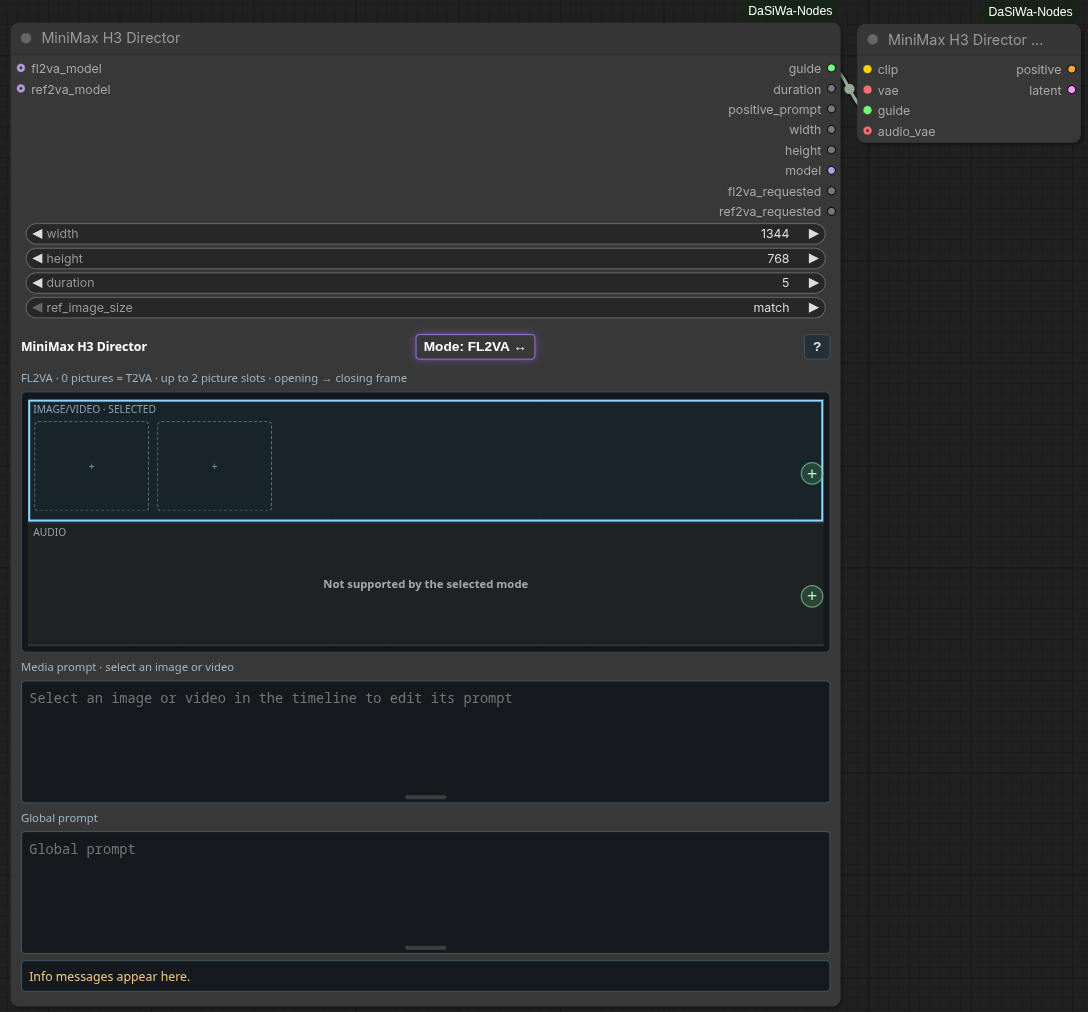
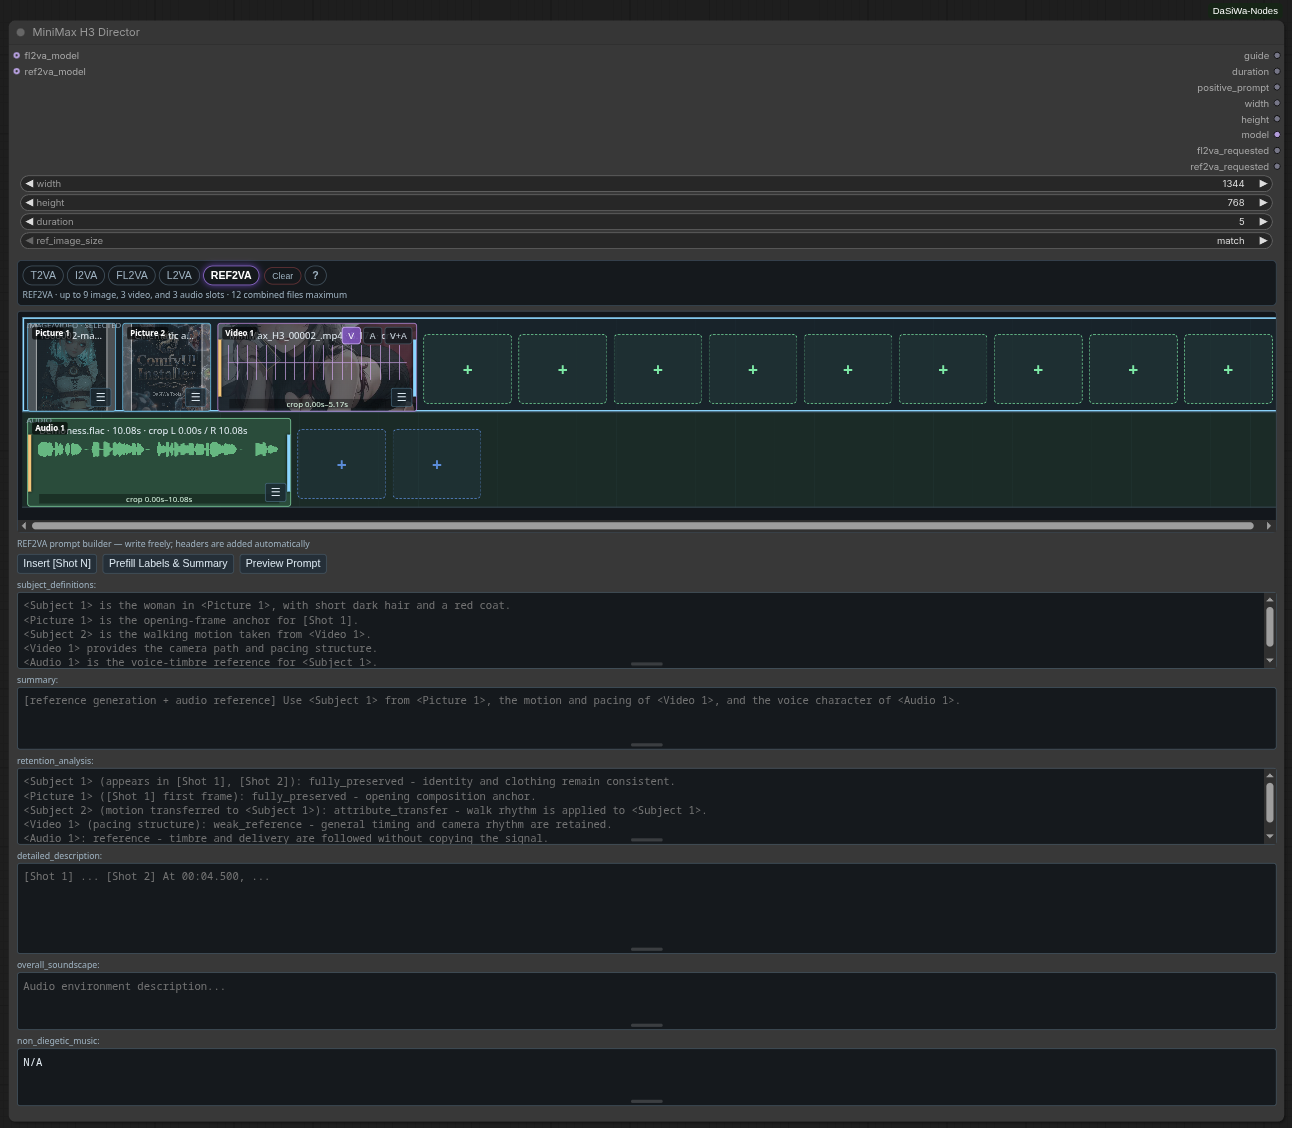
MiniMax H3 Director: new prompt builders, video thumbnails, helper buttons, toolbar cleanup, bug fixes
Features:
- REF2VA prompt builder simplified to six free-text fields; automatic header insertion; v1→v2 backward compat
- Insert [Shot N] button places shot markers at cursor
- Prefill Labels & Summary auto-generates Picture/Video/Audio labels from timeline media
- Preview Prompt popup shows exact assembled prompt with copy-to-clipboard
- Video thumbnails: first frame extracted at upload and displayed behind clip tiles
- Cleaner toolbar: single horizontal bar, bare mode pills, dedicated Clear/Remove/? controls
- Dark-blue audio lane accent

Docs:
- Updated README.md MiniMax H3 Director section
- Expanded minimax_h3_director.md changelog, quick overview, toolbar row, clip tiles, prompt editors, processing flow, guide node, practical workflow

Fixes:
- Guarded non-string values against .strip() TypeError
- Fixed textarea onChange passing Event instead of value
- Guarded missing p2_shot/last_shot keys
- Trim sliders only respond when clicking crop markers
- Images can now be dragged out of locked L2VA slots
- Corrected slot-capacity check for image acceptance
- Restored center drag handles on resize bars

Updated screenshot: assets/DaSiWa-MiniMaxH3-Director.png

Changed region(s): [[0.0, 0.0, 1.0, 1.0], [0.0, 0.0, 0.1562, 0.0919]]

diff --git a/docs/minimax_h3_director.md b/docs/minimax_h3_director.md
@@ -6,12 +6,34 @@ A timeline-based authoring node for ComfyUI's native MiniMax H3 models. It centr
 
 Since the last GitHub release (August 2026):
 
+### New features
+
+- **REF2VA prompt builder redesigned:** simplified to six free-text fields (subject_definitions, summary, retention_analysis, detailed_description, overall_soundscape, non_diegetic_music). Headers are added automatically when the prompt is sent upstream. Legacy v1 structured-builder data is merged backward-compatibly into these fields.
+- **Insert [Shot N] button:** opens a small dialog asking for a shot number, then inserts `[Shot N] ` at the current cursor position in the appropriate text area — no more manual typing.
+- **Prefill Labels & Summary button (REF2VA):** scans your inserted media and generates `<Picture N>`, `<Video N>`, and `<Audio N>` label lines plus a task-prefixed summary line so you can focus on editing instead of boilerplate.
+- **Preview Prompt button:** opens a popup showing the exact prompt that will be sent to MiniMax H3 (including all section headers, alignment lines, and assembled fields). Includes a copy-to-clipboard button so you can verify or reuse the result offline.
+- **Video thumbnail previews:** every uploaded video now extracts its first frame and displays it as a background behind the clip tile, replacing the generic icon. Makes it easy to tell references apart without opening each one.
+- **Cleaner toolbar:** consolidated into a single horizontal row with mode buttons on the left and Clear/Remove/? controls on the right; removed redundant bubble elements and pulsing glows for a quieter interface.
+- **Dark-blue audio lane accent:** distinguishes the audio lane visually from the Image/Video lane and the green "+ empty-slot" indicators.
+
+### Earlier additions
+
 - **Embedded video audio extraction:** videos can now supply their own audio reference. Select A or V+A on a video clip to decode its embedded audio track with the same trim range used for frames.
 - **Per-video stream switch (V / A / V+A):** compact controls on each video tile let you treat it as Video only, Audio only, or Video+embedded-audio without adding separate audio slots.
 - **Trim support for standalone audio:** audio clips now show a waveform preview and draggable left/right crop markers, behaving identically to video trimming.
 - **Attached soundtrack trim alignment:** external soundtracks linked to a video share its trim window automatically.
 - **Mode-switch safety:** toggling FL2VA ↔ REF2VA preserves incompatible references instead of deleting them; they reappear when you switch back.
 - **Hardened video duration detection:** fallback to container-level duration when stream metadata is incomplete.
+
+### Bug fixes
+
+- Non-string values in prompt-builder fields no longer crash with `.strip()` TypeError.
+- Textarea `onChange` callbacks now receive the string value, not the raw Event object.
+- Missing `p2_shot`/`last_shot` builder keys guarded against KeyError outside FL2VA/L2VA modes.
+- Trim sliders only respond when clicking directly on crop markers, preventing accidental drags on the track background.
+- Images can now be dragged out of locked L2VA slot positions instead of being stuck forever.
+- Slot-capacity checks corrected so images are accepted in all valid endpoint modes.
+- Center drag handles restored on prompt-field resize bars.
 
 ## Quick overview
 
@@ -20,7 +42,10 @@ Since the last GitHub release (August 2026):
 - Two timeline lanes: Image/Video + Audio. Click a lane to select it; paste / drop media there.
 - Per-video stream switch: choose Video only, Audio only, or Video+embedded-audio with identical trim ranges.
 - Standalone audio clips can be trimmed with left/right handles just like video.
-- Deterministic prompt assembly: global prompt + enabled per-media prompt blocks in timeline order.
+- Video thumbnails: each uploaded video shows its first frame as a background preview behind the clip tile.
+- Mode-specific prompt builders:
+  - FL2VA/I2VA/L2VA/T2VA: guided fields for description and audio sections with automatic alignment headers.
+  - REF2VA: six free-text sections (subject_definitions, summary, retention_analysis, detailed_description, overall_soundscape, non_diegetic_music) with helper buttons — Insert Shot, Prefill Labels & Summary, and Preview Prompt.
 - Only the selected FL2VA or REF2VA model is loaded; the Guide node calls ComfyUI's built-in H3 nodes.
 
 ## Installation and graph setup
@@ -140,12 +165,12 @@ Open the node and read top-to-bottom.
 ### Toolbar row
 
 - **Title label:** "MiniMax H3 Director"
-- **Mode button:** shows current mode (`FL2VA` or `REF2VA`). Click to toggle. When switching modes:
+- **Mode buttons (left):** T2VA, I2VA, FL2VA, L2VA, REF2VA shown as small pills. Active mode has purple highlight. Click to switch modes. When switching modes:
   - Going to FL2VA hides non-image references but keeps them in memory so they reappear when you switch back.
   - Going to REF2VA restores all previously added media.
-- **? button:** opens the online documentation on GitHub.
+- **Clear button:** removes all media and prompts from the timeline (appears only when there is content).
 - **Remove button:** appears when a clip is selected; deletes that item.
-- **Clear button:** removes all media and prompts from the timeline.
+- **? button:** opens the online documentation on GitHub.
 
 ### Timeline area
 
@@ -175,6 +200,7 @@ Each media item renders as a labeled tile inside its lane.
 
 Common elements:
 
+- **Background preview:** images show themselves; videos display their first-frame thumbnail extracted at upload time. Makes it easy to identify references visually without opening previews.
 - **Identity badge (top-left):** shows the MiniMax reference label used in prompts: `Picture 1`, `Video 2`, `Audio 1`, etc., assigned by type in timeline order.
 - **Label text:** filename, duration, current crop range (for video/audio), and a truncated preview of the media prompt if present.
 - **Selection outline:** click a tile to select it; enables the Remove button and populates the Media Prompt editor below.
@@ -205,23 +231,34 @@ Images:
 
 ### Prompt editors
 
-Below the timeline are two resizable text areas.
+Below the timeline is a unified prompt-builder panel whose layout depends on the active mode. Both editors have resizable text areas with drag-handle bars at the bottom; heights persist in the workflow JSON.
 
-#### Media Prompt (upper editor)
+#### FL2VA / I2VA / L2VA / T2VA builder
 
-- Appears when an image or video clip is selected. Disabled (empty) when nothing is selected or when an audio clip is selected.
-- Purpose: write a concise responsibility note for the selected reference, e.g.:
-  - `"character identity and red coat"`
-  - `"use this clip's hand gesture timing"`
-  - `"room architecture and lighting"`
-- These short blocks are appended after the global prompt during assembly, in timeline order.
+Three labeled text areas:
 
-#### Global Prompt (lower editor)
+- **integrated_multimodal_description** — main scene/action/camera/environment description with optional `[Shot N]` markers. An **Insert [Shot N]** button pops up a dialog and places the marker at your cursor.
+- **overall_soundscape** — ambient sounds, dialogue, effects.
+- **non_diegetic_music** — background score or `N/A`.
 
-- Holds the main prompt structure for the whole generation.
-- For FL2VA: contains the alignment instruction line(s) plus core fields (`integrated_multimodal_description`, `overall_soundscape`, `non_diegetic_music`).
-- For REF2VA: should contain the six-section structure described in the prompting guide below.
-- Both editors have a drag-handle bar at the bottom for resizing height. Your preferred heights persist in the workflow JSON.
+Alignment instruction lines (for I2VA/FL2VA/L2VA) are generated automatically based on mode and duration; you do not type them manually.
+
+#### REF2VA builder
+
+Six labeled text areas matching the official full-reference format. Section headers (`subject_definitions:` etc.) are appended automatically by the backend; you write only the content:
+
+- **subject_definitions** — define `<Subject N>`, `<Picture N>`, `<Video N>`, `<Audio N>` entries and what each contributes.
+- **summary** — task-type prefix (`[reference generation + audio reference]`) plus one-line intent statement.
+- **retention_analysis** — per-label retention markers (`fully_preserved`, `attribute_transfer`, etc.) with brief rationale.
+- **detailed_description** — shot-by-shot narrative using `[Shot N]` and timestamps.
+- **overall_soundscape** — audio environment.
+- **non_diegetic_music** — score or `N/A`.
+
+Helper buttons above the fields:
+
+- **Insert [Shot N]** — asks for a shot number, inserts `[Shot N] ` at the cursor in the `detailed_description` area.
+- **Prefill Labels & Summary** — scans your timeline items and writes initial `<Picture N>`, `<Video N>`, `<Audio N>` label lines plus a summary template referencing them. Edit freely afterward.
+- **Preview Prompt** — opens a popup showing exactly how the final prompt will look once section headers and any alignment lines are applied. Includes a copy-to-clipboard button.
 
 ## Limits and validation
 
@@ -265,9 +302,12 @@ On queue, the Director executes this sequence:
    - Ordered lists of images, videos, audios with metadata.
    - Endpoint frames (FL2VA).
    - Reference maps keyed as `ref_image_N`, `ref_video_N`, `ref_audio_N`, `ref_video_audio_N`.
-   - Enabled per-media prompt blocks with their IDs and order.
+5. Reads the mode-specific prompt-builder state:
+   - FL2VA/I2VA/L2VA/T2VA: uses integrated_multimodal_description, overall_soundscape, non_diegetic_music fields.
+   - REF2VA: uses the six free-text sections (subject_definitions, summary, retention_analysis, detailed_description, overall_soundscape, non_diegetic_music).
+   - Alignment lines (I2VA/FL2VA/L2VA) are injected automatically based on mode and duration.
 
-This `guide` object is passed out as the sole data connection to the Guide node.
+This `guide` object and `builder_state` are passed out to the Guide node.
 
 ### The Guide node
 
@@ -277,9 +317,10 @@ The Guide is a thin adapter between your authored timeline and ComfyUI's native 
    - Confirms mode consistency.
    - Checks that required models/CLIP/VAEs are connected.
    - For REF2VA, ensures an audio VAE exists.
-2. Assembles the final prompt:
-   - Starts with the global prompt from the Director.
-   - Appends enabled per-media prompt blocks sorted by timeline position.
+2. Assembles the final prompt via the prompt-builder helper:
+   - Reads `builder_state` from the Director.
+   - For FL2VA/I2VA/L2VA/T2VA: injects alignment lines (when applicable), combines integrated_multimodal_description + overall_soundscape + non_diegetic_music into the canonical format.
+   - For REF2VA: wraps the six user-written sections with their standard headers (`subject_definitions:`, `summary:`, etc.). Legacy v1 structured-builder data is merged automatically if present.
    - Writes the result as `resolved_prompt`.
 3. Routes to the appropriate native node:
    - FL2VA → calls `MiniMaxH3ImageToVideo` with endpoint frames and prompt.
@@ -381,8 +422,10 @@ Example: `The camera pushes in with small amplitude at slow speed toward her han
 1. Choose FL2VA for endpoint/text work; REF2VA for multi-reference transfer.
 2. Add only references that contribute specific identity, motion, layout, or sound.
 3. Trim videos/audio to the strongest 2–15s segments; respect totals.
-4. Write the global prompt in subject → action → camera → environment → audio order.
-5. Add one-line responsibility notes as media prompts for key references.
+4. Use the mode-specific prompt builder:
+   - FL2VA/I2VA/L2VA/T2VA: fill the three guided fields; alignment lines appear automatically.
+   - REF2VA: click **Prefill Labels & Summary** to scaffold your labels, then edit subject definitions and detailed description. Use **Insert [Shot N]** for clean shot markers.
+5. Click **Preview Prompt** to verify the exact output before queuing.
 6. Verify duration, aspect ratio, and motion match your references; queue through the Guide.
 
 Official MiniMax H3 guides (canonical conventions):

diff --git a/README.md b/README.md
@@ -6,17 +6,20 @@ A high-performance collection of custom nodes for ComfyUI, optimized for video w
 
 ### 🎬 MiniMax H3 Director
 
-Timeline-based authoring for MiniMax H3 text/image/video generation and reference-to-video workflows, integrated with ComfyUI's native H3 implementation. Two lanes (Image/Video + Audio), slot-based layout, drag-and-drop / paste / upload, per-clip trims, per-media prompts, and a global prompt editor.
+Timeline-based authoring for MiniMax H3 text/image/video generation and reference-to-video workflows, integrated with ComfyUI's native H3 implementation. Two lanes (Image/Video + Audio), slot-based layout, drag-and-drop / paste / upload, per-clip trims, and structured prompt builders per mode.
 
 ![MiniMax H3 Director](assets/DaSiWa-MiniMaxH3-Director.png)
 
 - **FL2VA mode:** text-to-video (T2VA), first-frame (I2VA), or first+last frame interpolation; up to 2 image slots; automatic alignment-line insertion in the prompt.
 - **REF2VA mode:** up to 9 images, 3 videos, 3 audio clips, 12 files total; each video has a compact V / A / V+A switch (Video only / Audio only / Video+embedded-audio) using the same trim range for both streams; standalone audio also supports left/right trim handles.
-- **Reference handling:** reorder clips by dragging between slots, attach external soundtracks to videos, crop references visually via draggable markers, preserve incompatible media when toggling FL2VA ↔ REF2VA instead of losing assets.
-- **Lane selection & paste:** click an Image/Video or Audio lane to select it; Ctrl+V pastes clipboard images/videos/audio into the chosen lane; drag-and-drop from your file manager works too.
-- **Prompts:** one global prompt block plus short per-media prompt notes (images/videos only); final prompt is global + enabled media blocks assembled in timeline order.
-- **Validated limits:** 2–15 second reference windows; max 15s combined visual and audio duration each; strict path-safety under ComfyUI's input directory.
-- **Native routing & lazy loading:** hands validated data to ComfyUI's built-in MiniMaxH3ImageToVideo / MiniMaxH3ReferenceToVideo nodes; only the selected FL2VA or REF2VA model is requested.
+- **REFERENCE VIDEO THUMBNAILS:** uploaded videos show their actual first frame as a background preview behind each clip tile, making it easy to identify references at a glance.
+- **REFERENCE HANDLING:** reorder clips by dragging between slots, attach external soundtracks to videos, crop references visually via draggable markers, preserve incompatible media when toggling FL2VA ↔ REF2VA instead of losing assets.
+- **LANE SELECTION & PASTE:** click an Image/Video or Audio lane to select it; Ctrl+V pastes clipboard images/videos/audio into the chosen lane; drag-and-drop from your file manager works too.
+- **PROMPT BUILDERS:**
+  - FL2VA/I2VA/L2VA/T2VA: guided fields for integrated_multimodal_description, overall_soundscape, and non_diegetic_music with automatic alignment headers.
+  - REF2VA: simplified six-section free-text builder (subject_definitions, summary, retention_analysis, detailed_description, overall_soundscape, non_diegetic_music) with helper buttons: **Insert [Shot N]** places shot markers at cursor, **Prefill Labels & Summary** auto-generates Picture/Video/Audio labels from your inserted media, and **Preview Prompt** shows the exact assembled prompt in a popup with copy-to-clipboard.
+- **VALIDATED LIMITS:** 2–15 second reference windows; max 15s combined visual and audio duration each; strict path-safety under ComfyUI's input directory.
+- **NATIVE ROUTING & LAZY LOADING:** hands validated data to ComfyUI's built-in MiniMaxH3ImageToVideo / MiniMaxH3ReferenceToVideo nodes; only the selected FL2VA or REF2VA model is requested.
 
 [Full documentation, UI guide, and prompting reference →](docs/minimax_h3_director.md)
 
